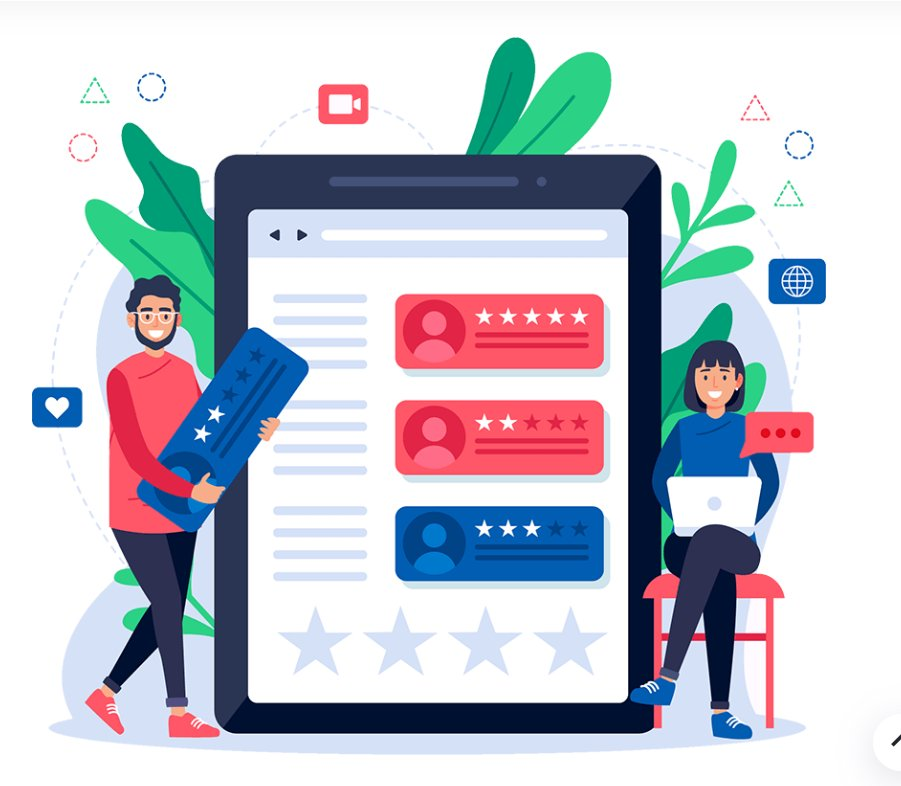
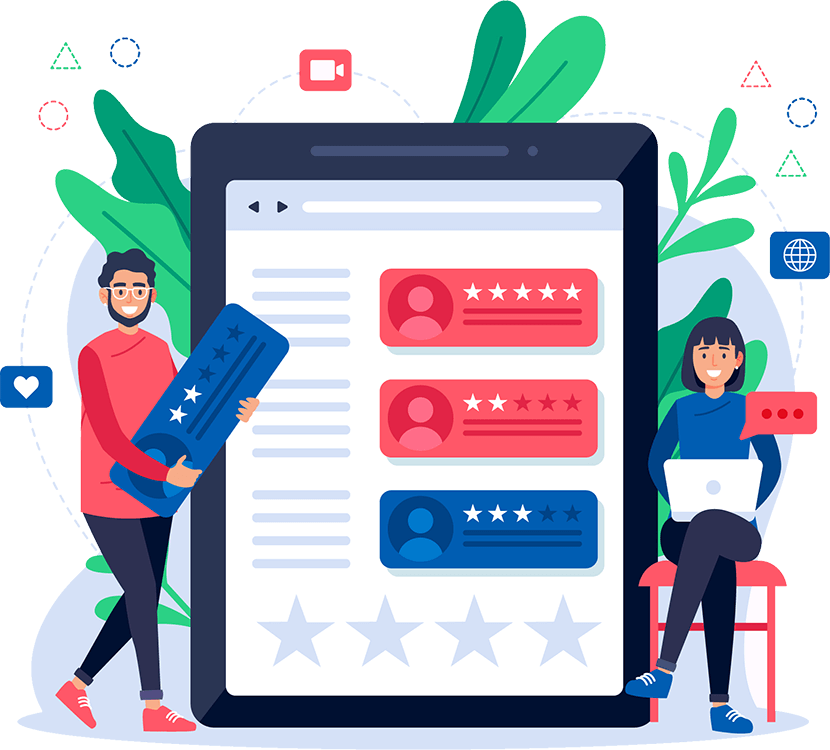
feat(assets): replace screenshot with real original Karlson transparent PNG asset (about-img1.png)

diff --git a/client/src/components/LandingPage.jsx b/client/src/components/LandingPage.jsx
@@ -292,13 +292,13 @@ export default function LandingPage({ onOpenRegister, onGoToDashboard, onGoToDem
 
             </div>
 
-            {/* Right Column: Karlson Tech Illustration (Uploaded by User) */}
+            {/* Right Column: Original Pristine Karlson Illustration */}
             <div className="lg:col-span-6 flex items-center justify-center relative">
               <div className="relative w-full max-w-lg lg:max-w-xl">
                 <img
-                  src="/how-it-works-illustration-trans.png"
+                  src="/how-it-works-illustration.png"
                   alt="How Printo automated printing workflow works"
-                  className="w-full h-auto object-contain select-none drop-shadow-md"
+                  className="w-full h-auto object-contain select-none"
                 />
               </div>
             </div>
